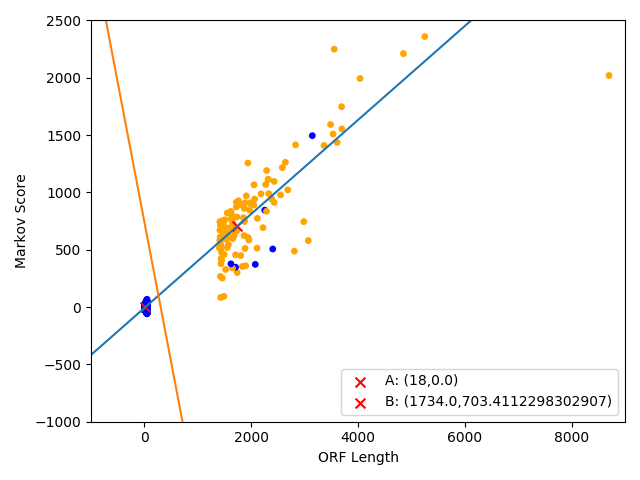
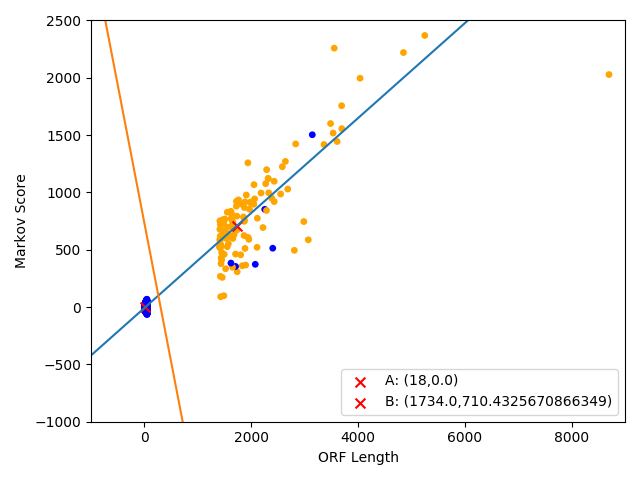
bad high markovs

diff --git a/hw4/src/main.py b/hw4/src/main.py
@@ -67,22 +67,24 @@ def calculate_score(locs, seq, trusted_list, bg_list):
 
   p_score = calculate_prob(seq, trusted_list[0], trusted_list[1], trusted_list[2])
   q_score = calculate_prob(seq, bg_list[0], bg_list[1], bg_list[2])
-  
+
   return p_score - q_score
 
 def calculate_prob(seq, kmer_counts, kmer_plusone_counts, kmer_start_counts):
   kmer_key_num = len(kmer_counts.keys())
-  kmer_start_total = sum(kmer_start_counts.values())
+  # kmer_key_num = len(c.nucleotides)
+  kmer_count_total = sum(kmer_counts.values())
+  start = seq[0:c.k]
 
   # initialize using start probabilities
-  if seq[0:c.k] in kmer_start_counts.keys():
-    result = np.log(kmer_start_counts[seq[0:c.k]] + c.pseudo_count) / \
-        (kmer_start_total + (c.pseudo_count * kmer_key_num))
+  if start in kmer_start_counts.keys():
+    result = np.log(kmer_start_counts[start] + c.pseudo_count) / \
+        (kmer_count_total + (c.pseudo_count * kmer_key_num))
   else:
-    result = np.log(c.pseudo_count / (c.pseudo_count * kmer_key_num))
+    result = np.log(c.pseudo_count / (kmer_count_total + (c.pseudo_count * kmer_key_num)))
 
-  for i in range(1, len(seq) - c.k):
-    term = seq[i: i + c.k + 1]
+  for i in range(c.k + 2, len(seq) + 1):
+    term = seq[i - c.k - 1: i]
     pre_term = term[0:c.k]
 
     if pre_term not in kmer_counts.keys() and term not in kmer_plusone_counts.keys():
@@ -91,8 +93,8 @@ def calculate_prob(seq, kmer_counts, kmer_plusone_counts, kmer_start_counts):
       result += np.log(c.pseudo_count /
                        (kmer_counts[pre_term] + (c.pseudo_count * kmer_key_num)))
     else:
-      result += np.log((kmer_plusone_counts[term] + c.pseudo_count) / (
-          kmer_counts[pre_term] + (c.pseudo_count * kmer_key_num)))
+      result += np.log((kmer_plusone_counts[term] + c.pseudo_count) / 
+          (kmer_counts[pre_term] + (c.pseudo_count * kmer_key_num)))
 
   return result
 
@@ -335,6 +337,8 @@ def main():
         first_short_score_map[short_start]))
     overall_output.write("\tmatch: {}".format(first_short_matches[i]))
   overall_output.write("\n")
+
+  print("kill me" + 69)
 
   # generating report info step
   print("generating rocs")
